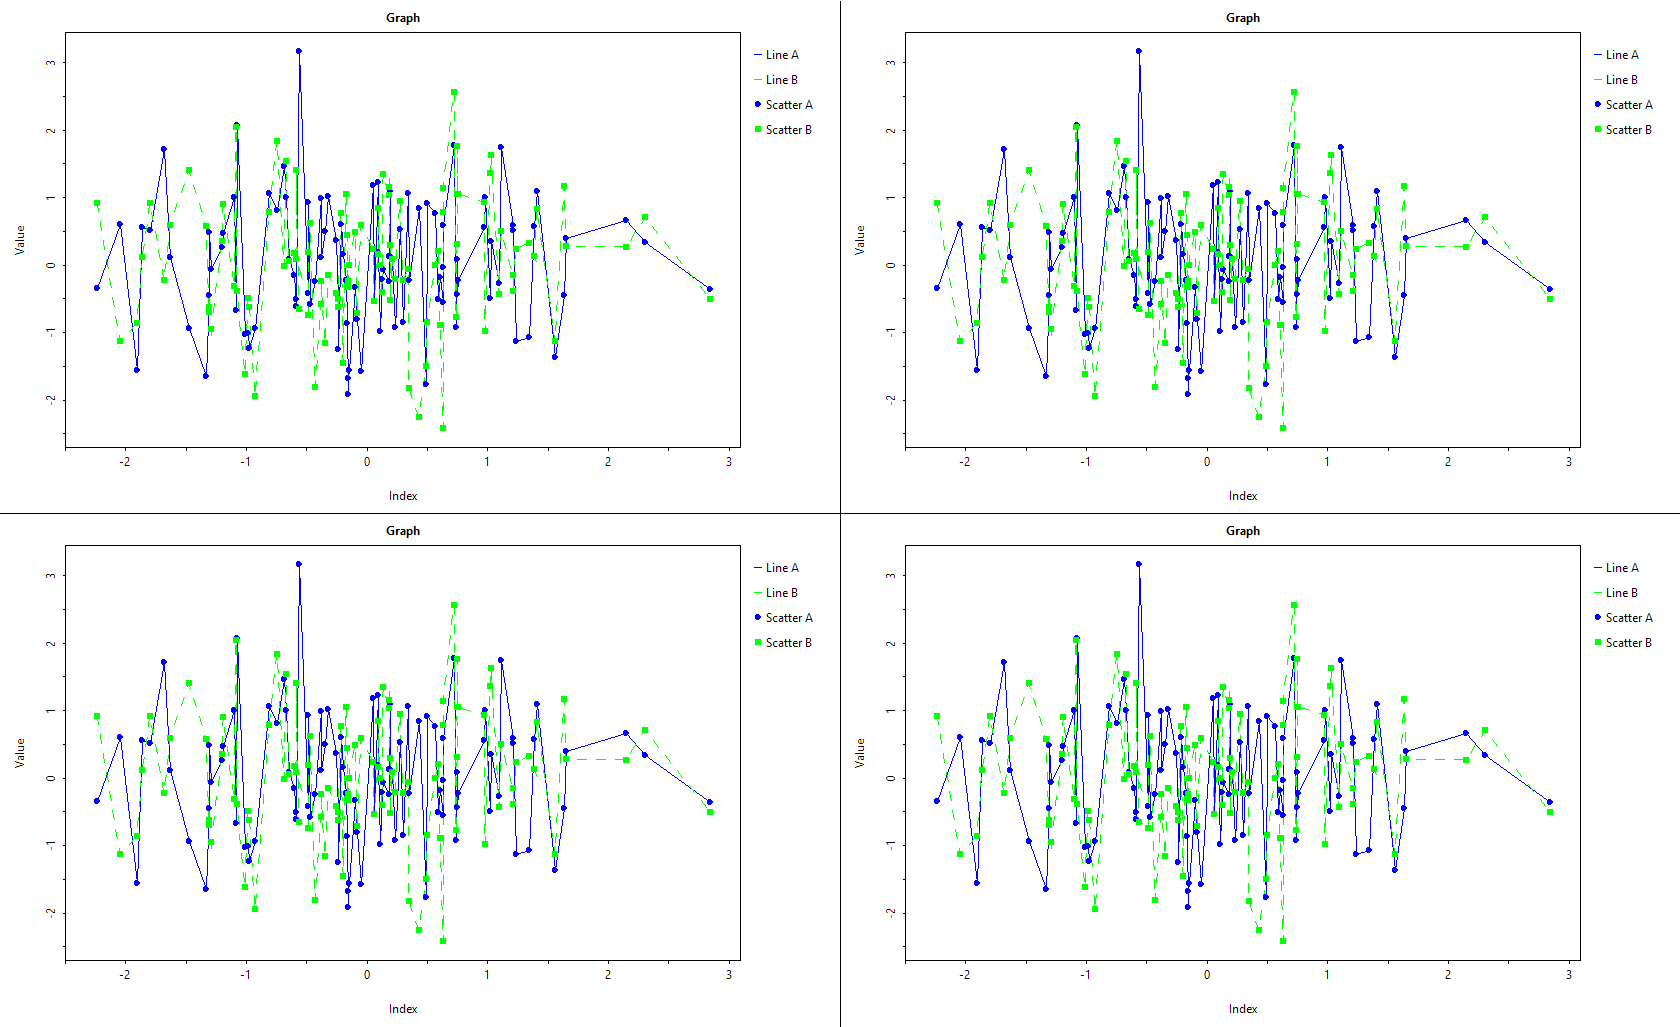
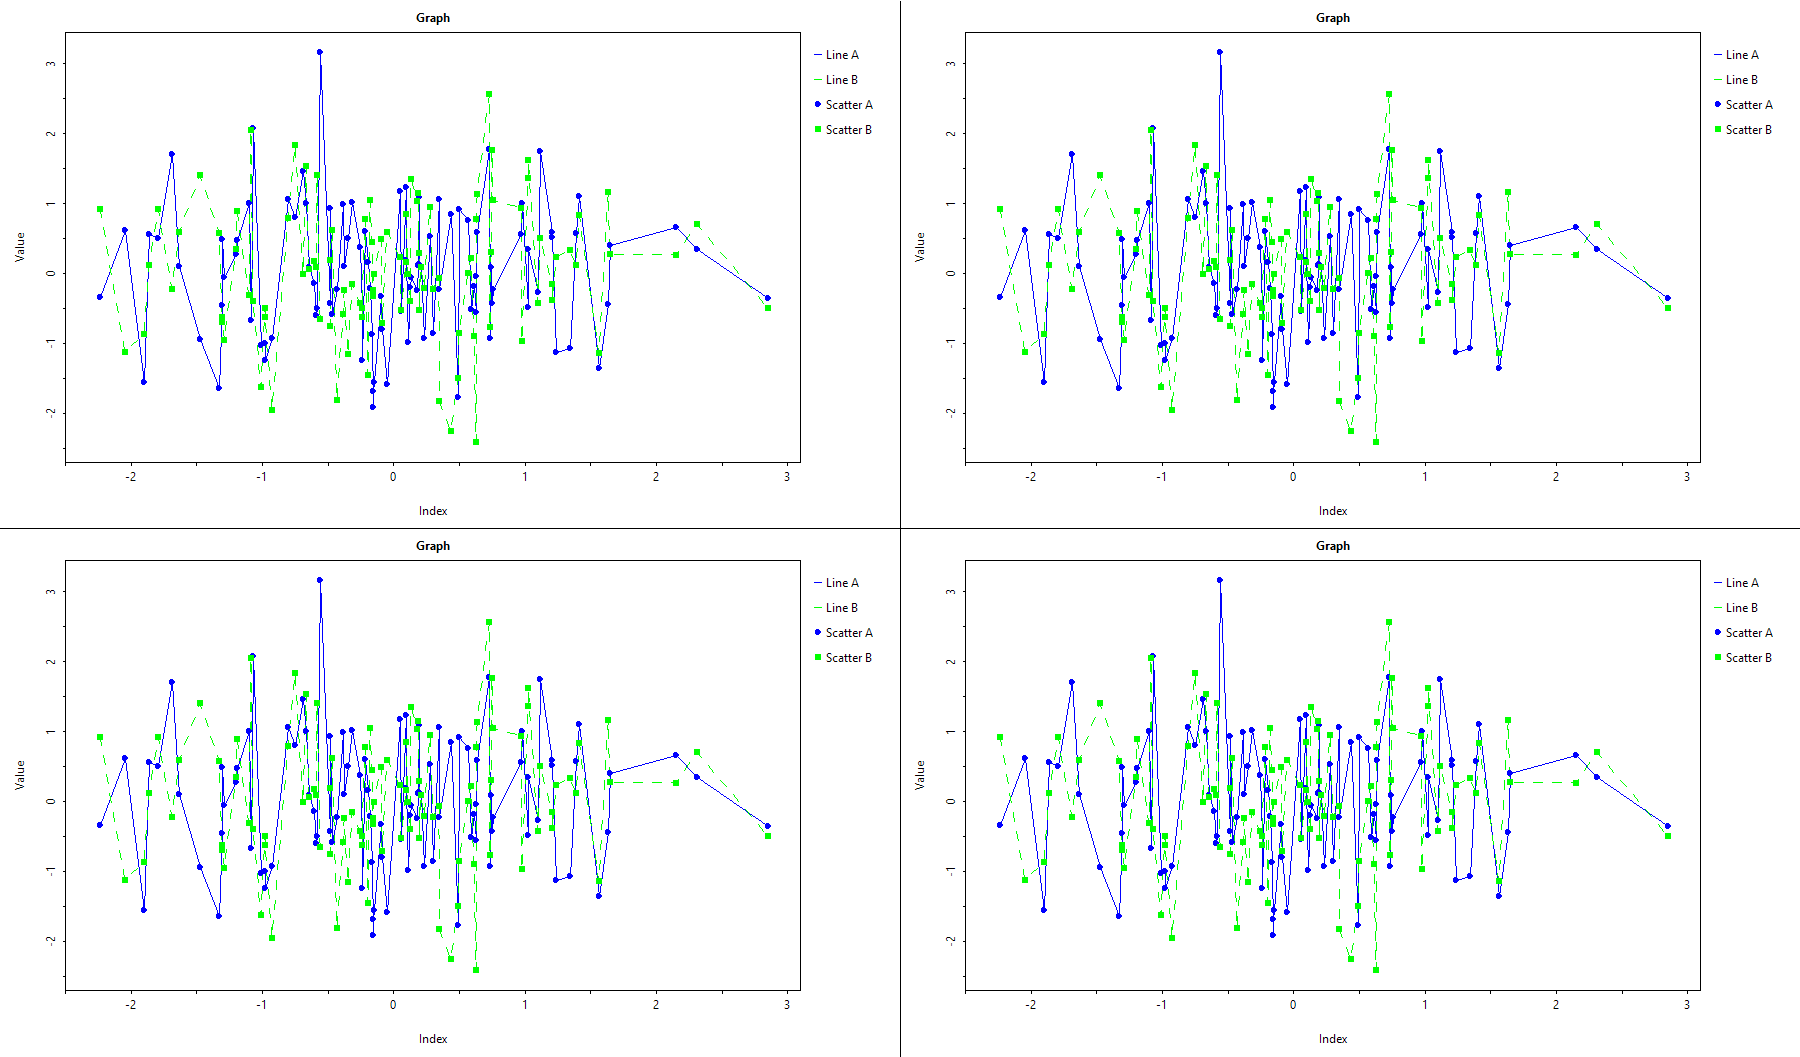
Finalization

diff --git a/src/Graph.h b/src/Graph.h
@@ -958,8 +958,8 @@ namespace cpplot {
 		int x_coord_xlabel = (int)((rect.right + rect.left) * 0.5);
 		int y_coord_xlabel = rect.bottom;
 		wchar_t *wide_xlabel = new wchar_t[xlabel.size() + 1];
-		MultiByteToWideChar(CP_UTF8, 0, xlabel.c_str(), -1, wide_xlabel, xlabel.size() + 1);
-		TextOut(hdc, x_coord_xlabel, y_coord_xlabel, wide_xlabel, xlabel.size());
+		MultiByteToWideChar(CP_UTF8, 0, xlabel.c_str(), -1, wide_xlabel, (int)xlabel.size() + 1);
+		TextOut(hdc, x_coord_xlabel, y_coord_xlabel, wide_xlabel, (int)xlabel.size());
 
 		delete[] wide_xlabel;
 
@@ -989,8 +989,8 @@ namespace cpplot {
 		int x_coord_ylabel = rect.left;
 		int y_coord_ylabel = (int)((rect.top + rect.bottom) * 0.5);
 		wchar_t * wide_ylabel = new wchar_t[ylabel.size() + 1];
-		MultiByteToWideChar(CP_UTF8, 0, ylabel.c_str(), -1, wide_ylabel, ylabel.size() + 1);
-		TextOut(hdc, x_coord_ylabel, y_coord_ylabel, wide_ylabel, ylabel.size());
+		MultiByteToWideChar(CP_UTF8, 0, ylabel.c_str(), -1, wide_ylabel, (int)ylabel.size() + 1);
+		TextOut(hdc, x_coord_ylabel, y_coord_ylabel, wide_ylabel, (int)ylabel.size());
 
 		delete[] wide_ylabel;
 
@@ -1023,8 +1023,8 @@ namespace cpplot {
 		int x_coord_title = (int)((rect.right + rect.left) / 2);
 		int y_coord_title = rect.top;
 		wchar_t * wide_title = new wchar_t[title.size() + 1];
-		MultiByteToWideChar(CP_UTF8, 0, title.c_str(), -1, wide_title, title.size() + 1);
-		TextOut(hdc, x_coord_title, y_coord_title, wide_title, title.size());
+		MultiByteToWideChar(CP_UTF8, 0, title.c_str(), -1, wide_title, (int)title.size() + 1);
+		TextOut(hdc, x_coord_title, y_coord_title, wide_title, (int)title.size());
 
 		delete[] wide_title;
 
@@ -1072,8 +1072,10 @@ namespace cpplot {
 		// Get current graphic properties
 		HPEN hGraphPreviousPen = (HPEN)GetCurrentObject(hdc, OBJ_PEN);
 		HBRUSH hGraphPreviousBrush = (HBRUSH)GetCurrentObject(hdc, OBJ_BRUSH);
-		HPEN hGraphPen;
-		HBRUSH hGraphBrush;
+		
+		// This defintions are for the correctnes of deletion
+		HPEN hGraphPen = CreatePen(PS_SOLID, 1, BLACK);
+		HBRUSH hGraphBrush = CreateSolidBrush(BLACK);
 
 		for (std::vector<LEGEND>::const_iterator it = legend.begin();
 			it != legend.end(); ++it)
@@ -1081,8 +1083,8 @@ namespace cpplot {
 			// Set proper graphics attributes
 			hGraphPen = CreatePen(PS_SOLID, it->size, it->color);
 			hGraphBrush = CreateSolidBrush(it->color);
-			(HPEN)SelectObject(hdc, hGraphPen);
-			(HBRUSH)SelectObject(hdc, hGraphBrush);
+			SelectObject(hdc, hGraphPen);
+			SelectObject(hdc, hGraphBrush);
 
 			// Paint the point/line in the left column of the legend
 			point_pos_x = (int)((rect.left + LEGEND_SYMBOL_LENGTH * 0.5));
@@ -1118,7 +1120,7 @@ namespace cpplot {
 			}
 
 			// Show the text associated with a given point/line
-			string_size = (it->name).size();
+			string_size = (int)(it->name).size();
 			diff = string_size;
 			begin = 0;
 
@@ -1169,7 +1171,7 @@ namespace cpplot {
 		// Clean graphics objects
 		DeleteObject(hGraphPen);
 		DeleteObject(hGraphBrush);
-
+		
 		delete[] buffer;
 	}
 
@@ -1185,7 +1187,7 @@ namespace cpplot {
 		for (std::vector<LEGEND>::const_iterator
 			it = legend.begin(); it != legend.end(); ++it)
 		{
-			string_width = (it->name).size() * text_width;
+			string_width = (int)(it->name).size() * text_width;
 			if (string_width >= base_width)
 			{
 				return base_width;

diff --git a/src/Figure.h b/src/Figure.h
@@ -501,18 +501,18 @@ namespace cpplot
 	{
 		// Set the suffix type of saved image
 		wchar_t *ext_dir = new wchar_t[extension.size() + 1];
-		MultiByteToWideChar(CP_UTF8, 0, extension.c_str(), -1, ext_dir, extension.size() + 1);
+		MultiByteToWideChar(CP_UTF8, 0, extension.c_str(), -1, ext_dir, (int)extension.size() + 1);
 
 		// Allocate enough space to hold also the suffix of type 
 		// +2 because of dot and null termination
-		wchar_t *file_dir = new wchar_t[file.size() + extension.size() + 2];
+		wchar_t *file_dir = new wchar_t[file.size() + (int)extension.size() + 2];
 
 		// Copy the original string to the file_dir buffer
-		MultiByteToWideChar(CP_UTF8, 0, file.c_str(), -1, file_dir, file.size() + 1);
+		MultiByteToWideChar(CP_UTF8, 0, file.c_str(), -1, file_dir, (int)file.size() + 1);
 		file_dir[file.size()] = L'.';
 
 		// Copy the suffix type to the buffer
-		wcscpy_s(file_dir + file.size() + 1, extension.size() + 1, ext_dir);
+		wcscpy_s(file_dir + file.size() + 1, (int)extension.size() + 1, ext_dir);
 
 		// Set the Globals::dir and Globals::ext, so the CALLBACK function can see it
 		cpplot::Globals::dir = file_dir;

diff --git a/src/Render.h b/src/Render.h
@@ -340,7 +340,7 @@ namespace cpplot
 			distance = norm(start_data, end_data);
 
 			// Render every second dot_length
-			while (true)
+			while (end_dot_length <= distance)
 			{
 				start_point = interpolate(start_data, end_data, start_dot_length / distance);
 				end_point = interpolate(start_data, end_data, end_dot_length / distance);
@@ -351,6 +351,7 @@ namespace cpplot
 				start_dot_length = norm(end_point, start_data) + dot_length;
 				end_dot_length = start_dot_length + dot_length;
 
+				// Adjust dot length for cases when the start should still start in this segment
 				if (end_dot_length > distance)
 				{
 					end_dot_length = dot_length;

diff --git a/examples/example1.cpp b/examples/example1.cpp
@@ -28,8 +28,7 @@ int main()
 	plt.xlabel("Dimension 1");
 	plt.ylabel("Dimension 2");
 	plt.title("2-variate Normal Random Variable");
-	// plt.save("example1", "png");
-	plt.show();
-
+	plt.save("example1", "png");
+	
 	return 0;
 }

diff --git a/src/Constants.h b/src/Constants.h
@@ -1,7 +1,7 @@
 #pragma once
 
 // define floating-point error comparison allowance
-#define FP_ERROR 0.00000001
+#define FP_ERROR 0.0000001
 
 // COLORS
 #define BLACK RGB(0, 0, 0)
